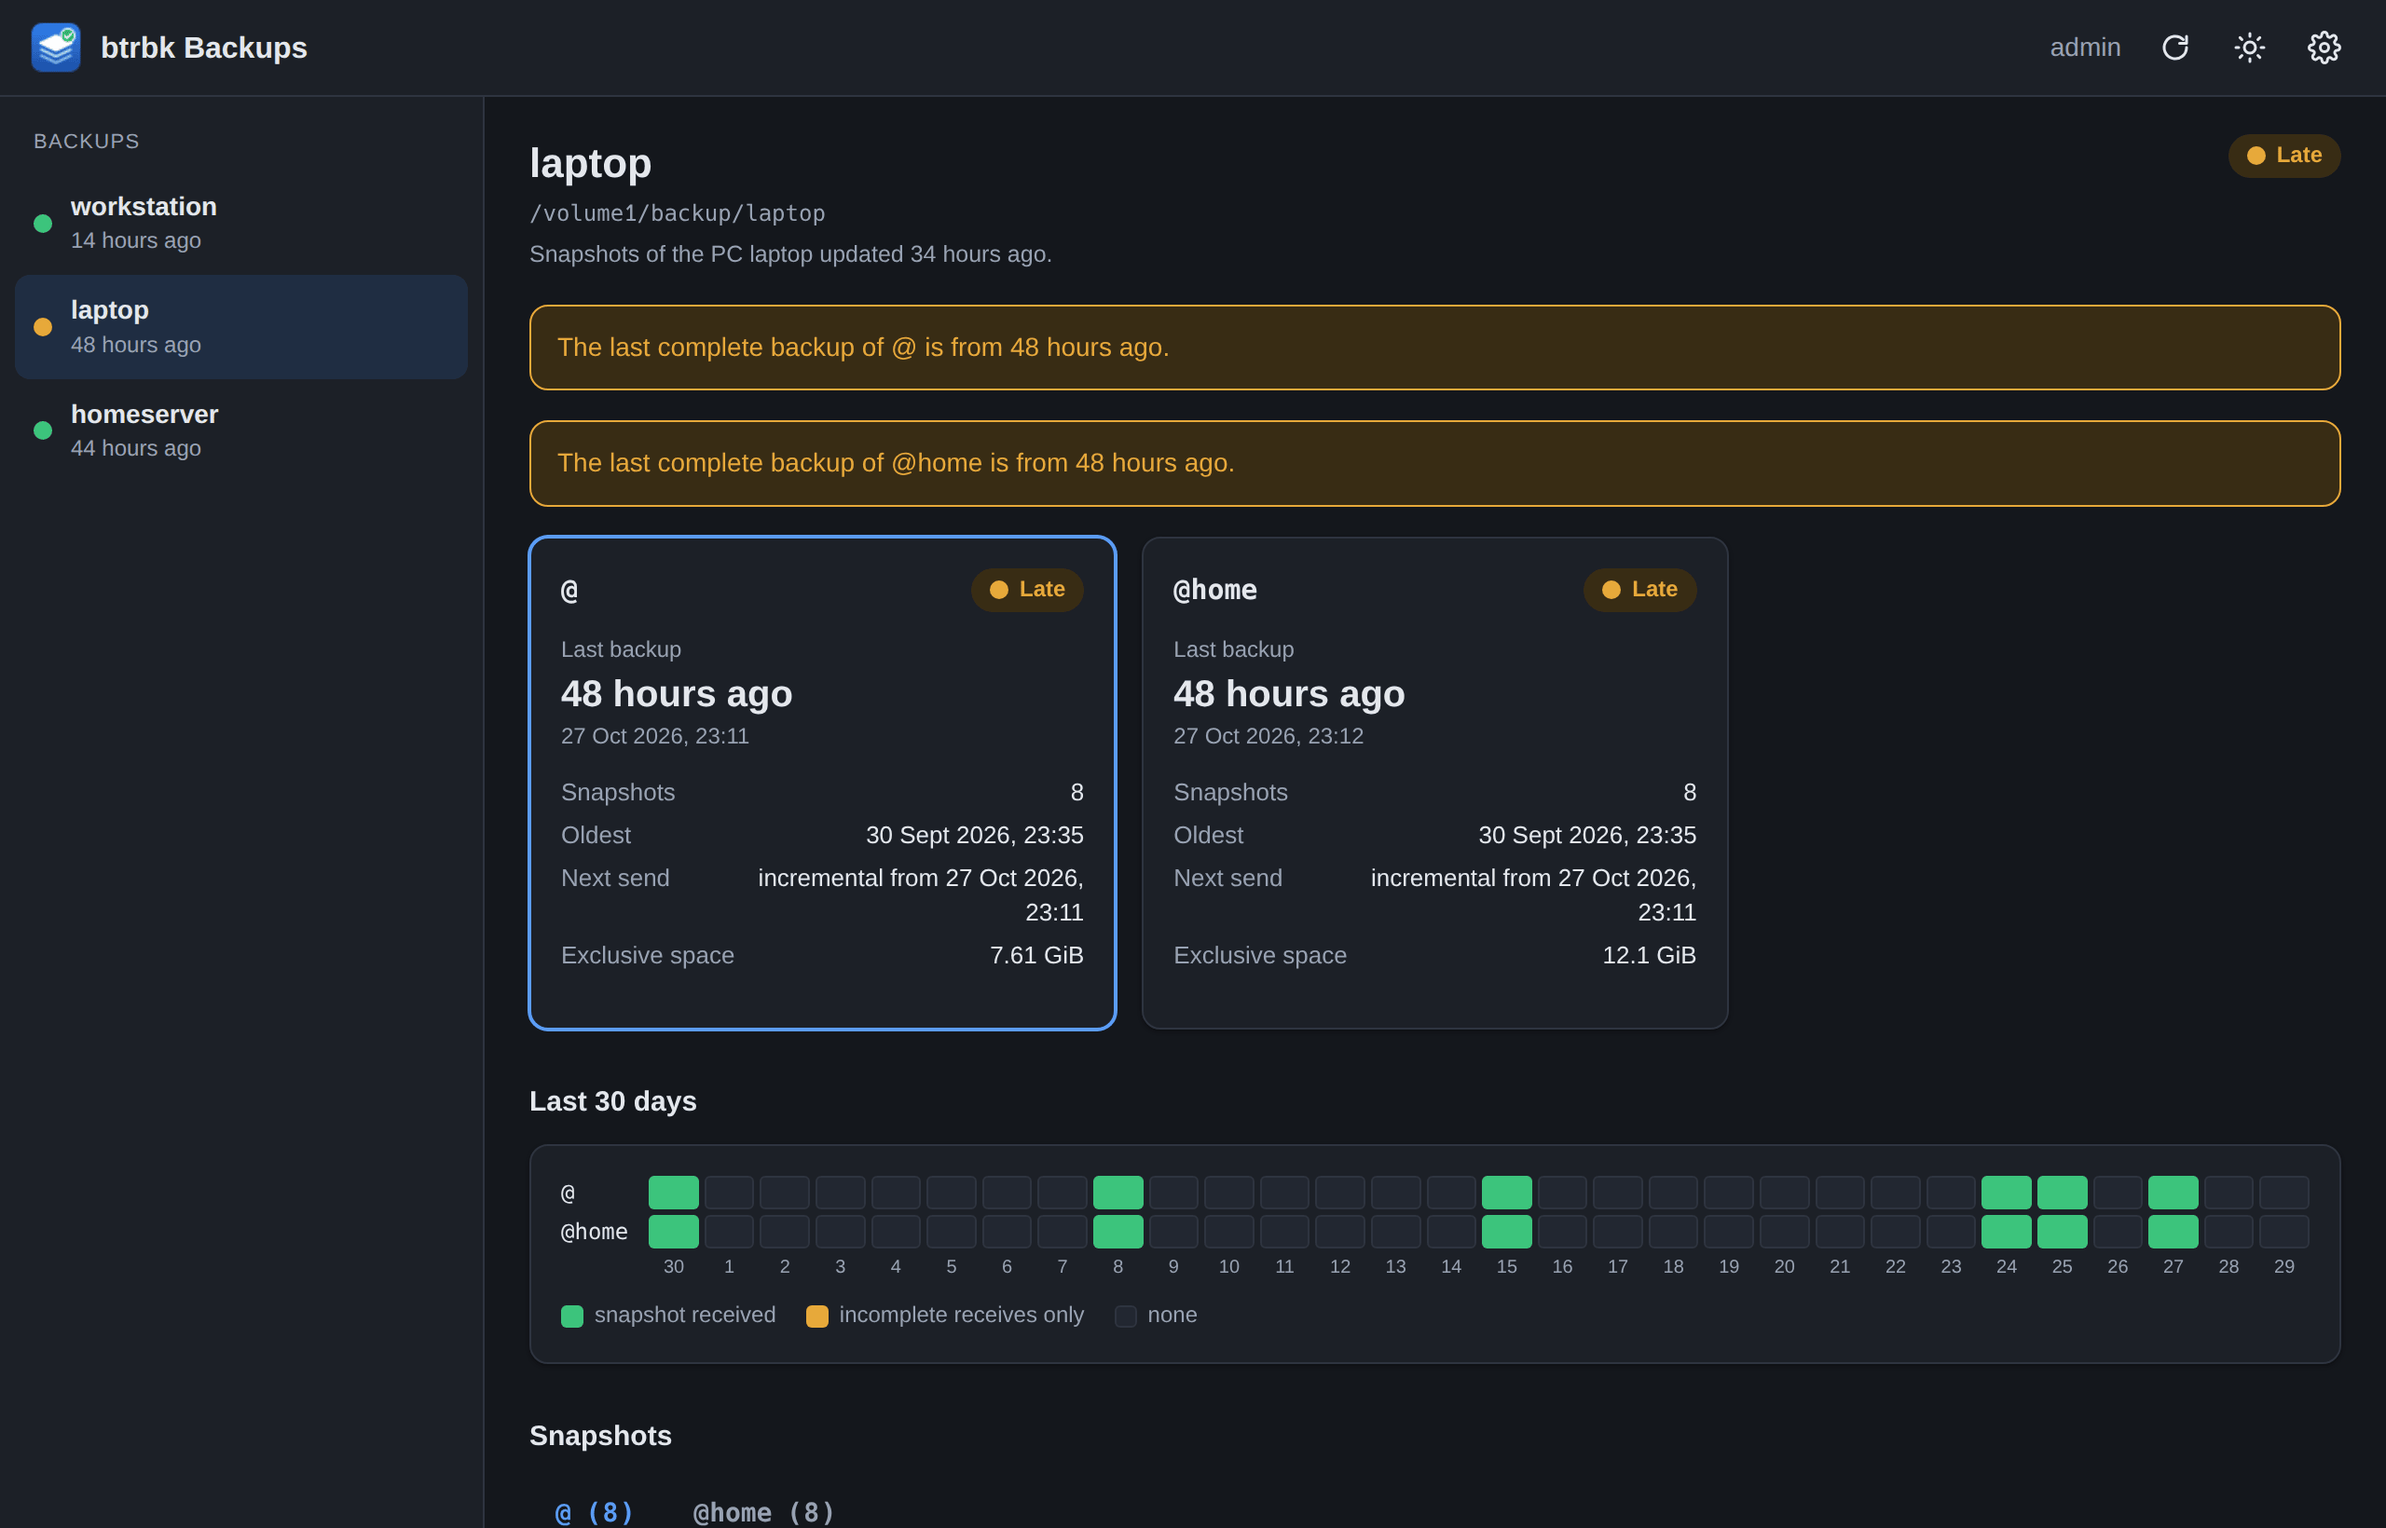
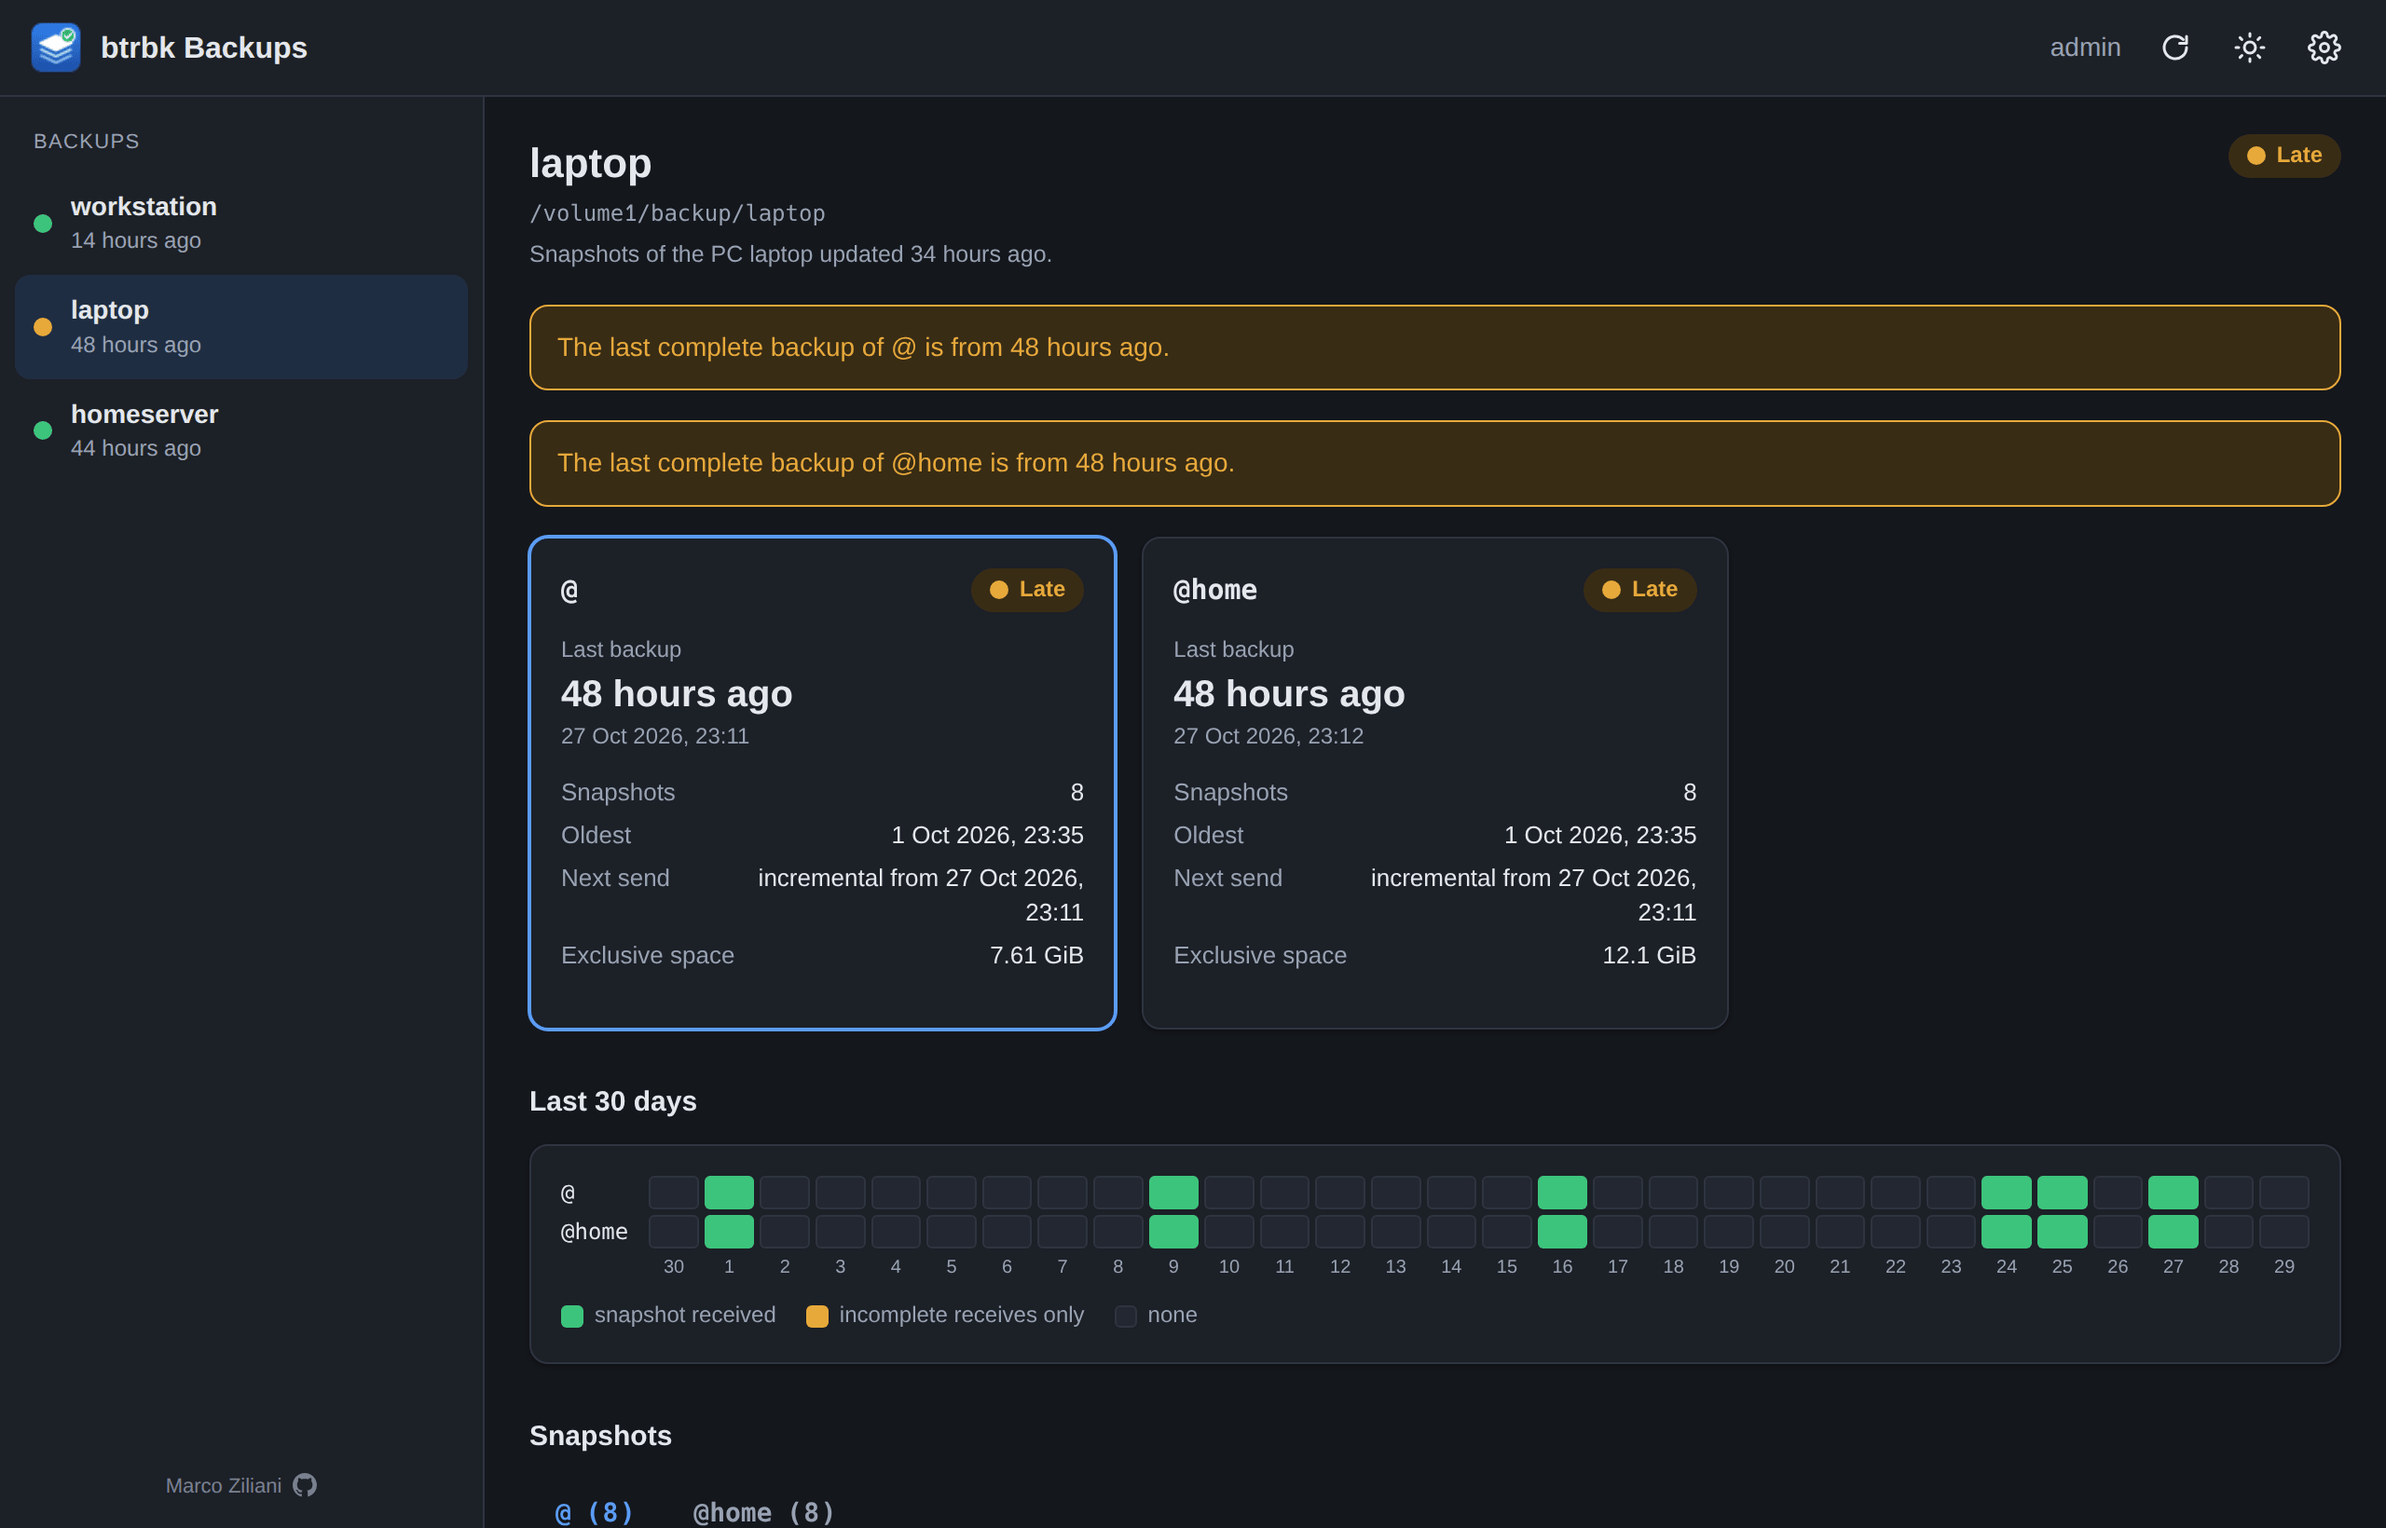
0.4.2: credits in the sidebar, an option to hide them
- The foot of the sidebar shows, quietly, the version and the author with
  a link to GitHub, as Dockhand does; a setting under Interface hides it.
- The interface's URLs carry the version and a hash of ui/, compiled into
  the binary too: every build has URLs of its own, not only every version.
  The page names its build in a meta tag; when the NAS runs another one,
  it reloads, once more with a URL never used if the cache still answers.
- The README links the glossary shared with SynoFile, now public.

diff --git a/ui/app.js b/ui/app.js
@@ -267,6 +267,16 @@ function showError(err) {
 
 /* ---------- sidebar ---------- */
 
+const GITHUB_MARK = '<svg viewBox="0 0 16 16" aria-hidden="true"><path d="M8 0C3.58 0 0 3.58 0 8c0 3.54 2.29 6.53 5.47 7.59.4.07.55-.17.55-.38 0-.19-.01-.82-.01-1.49-2.01.37-2.53-.49-2.69-.94-.09-.23-.48-.94-.82-1.13-.28-.15-.68-.52-.01-.53.63-.01 1.08.58 1.23.82.72 1.21 1.87.87 2.33.66.07-.52.28-.87.51-1.07-1.78-.2-3.64-.89-3.64-3.95 0-.87.31-1.59.82-2.15-.08-.2-.36-1.02.08-2.12 0 0 .67-.21 2.2.82.64-.18 1.32-.27 2-.27.68 0 1.36.09 2 .27 1.53-1.04 2.2-.82 2.2-.82.44 1.1.16 1.92.08 2.12.51.56.82 1.27.82 2.15 0 3.07-1.87 3.75-3.65 3.95.29.25.54.73.54 1.48 0 1.07-.01 1.93-.01 2.2 0 .21.15.46.55.38A8.01 8.01 0 0 0 16 8c0-4.42-3.58-8-8-8z"/></svg>';
+
+/** Version and author, quiet, at the foot of the sidebar. */
+function sidebarFooter(version) {
+  return h("div", { class: "side-footer" },
+    /^\d/.test(version || "") ? h("div", {}, `v${version}`) : null,
+    h("div", { class: "author" }, "Marco Ziliani",
+      h("a", { href: "https://github.com/rylos", target: "_blank", rel: "noopener", title: "GitHub", html: GITHUB_MARK })));
+}
+
 function renderSidebar(route) {
   const side = document.getElementById("sidebar");
   const ov = state.overview;
@@ -284,6 +294,8 @@ function renderSidebar(route) {
         h("div", { class: "sub" }, target.error ? t("error") : relative(target.last_received, ov.now)),
       )),
     ),
+    // replaceChildren would write a null as text
+    ...(ov.credits === false ? [] : [sidebarFooter(ov.version)]),
   );
 }
 
@@ -805,6 +817,8 @@ async function openSettings() {
     $("target-rows").replaceChildren(...config.targets.map(targetRow));
     $("warning-hours").value = config.warning_hours;
     $("critical-hours").value = config.critical_hours;
+    const credits = $("show-credits");
+    if (credits) credits.checked = config.show_credits !== false;
     fillNotifications(config.notifications);
     const ov = state.overview;
     $("monitor-status").textContent = ov ? monitorLine(ov.monitor, ov.now) : "";
@@ -833,6 +847,7 @@ function readSettings() {
     warning_hours: Number($("warning-hours").value),
     critical_hours: Number($("critical-hours").value),
     notifications: readNotifications(),
+    show_credits: $("show-credits")?.checked ?? true,
   };
 }
 
@@ -900,16 +915,25 @@ async function render() {
   }
 }
 
-// The DSM desktop keeps the loader of the version it started with, so after
+// The DSM desktop keeps the loader of the build it started with, so after
 // an upgrade the window can open the old index.html, still in the browser's
-// cache. When the NAS runs another version than the URLs name, reload with
-// its version, once.
-function staleVersion(version) {
-  const named = new URLSearchParams(ASSET_VERSION).get("v");
-  if (!named || named === "dev" || !version || version === "demo" || named === version) return false;
+// cache, with a newer app.js. The page names its build (a meta tag build.sh
+// fills in, version and hash of ui/); when the NAS runs another one, reload
+// with the NAS's in the URL, then once more with a URL never seen before.
+function staleVersion(asset) {
+  const meta = document.querySelector('meta[name="btrbk-nas-asset"]');
+  const page = meta ? meta.content : "";
+  if (!asset || asset === "dev" || page === "dev" || page === asset) return false;
+  const key = `btrbk-nas.reload.${asset}`;
+  let tries = 0;
+  try {
+    tries = Number(sessionStorage.getItem(key)) || 0;
+    sessionStorage.setItem(key, String(tries + 1));
+  } catch { /* no storage: the URL alone */ }
+  if (tries >= 2) return false;
   const url = new URL(location.href);
-  if (url.searchParams.get("v") === version) return false;
-  url.searchParams.set("v", version);
+  url.searchParams.set("v", asset);
+  if (tries === 1) url.searchParams.set("r", String(Date.now()));
   location.replace(url);
   return true;
 }
@@ -919,7 +943,7 @@ async function refresh() {
   button.classList.add("spinning");
   try {
     state.overview = await api("overview");
-    if (staleVersion(state.overview.version)) return;
+    if (staleVersion(state.overview.asset)) return;
     state.detail = null;
     document.getElementById("user").textContent = state.overview.user;
     await render();

diff --git a/ui/app.css b/ui/app.css
@@ -129,6 +129,12 @@ body.embedded .topbar { height: 44px; }
 .side-item .name { font-weight: 600; white-space: nowrap; overflow: hidden; text-overflow: ellipsis; }
 .side-item .sub { color: var(--muted); font-size: 12px; }
 .side-item > div { min-width: 0; }
+.sidebar { display: flex; flex-direction: column; }
+.side-footer { margin-top: auto; padding: 16px 10px 2px; color: var(--muted); font-size: 11px; opacity: .75; text-align: center; line-height: 1.6; }
+.side-footer .author { display: inline-flex; align-items: center; gap: 6px; }
+.side-footer a { display: inline-flex; color: inherit; }
+.side-footer a:hover { color: var(--text); }
+.side-footer svg { width: 13px; height: 13px; fill: currentColor; }
 
 .dot { width: 10px; height: 10px; border-radius: 50%; flex: none; background: var(--muted); }
 .dot.ok { background: var(--ok); }
@@ -331,8 +337,8 @@ a.btn { text-decoration: none; color: inherit; }
 
 @media (max-width: 760px) {
   .layout { flex-direction: column; }
-  .sidebar { width: auto; border-right: 0; border-bottom: 1px solid var(--border); display: flex; overflow-x: auto; padding: 8px; }
-  .side-title { display: none; }
+  .sidebar { width: auto; border-right: 0; border-bottom: 1px solid var(--border); display: flex; flex-direction: row; overflow-x: auto; padding: 8px; }
+  .side-title, .side-footer { display: none; }
   .side-item { width: auto; flex: none; }
   .content { padding: 16px; }
   .target-row { grid-template-columns: 1fr; }

diff --git a/ui/index.html b/ui/index.html
@@ -2,6 +2,7 @@
 <html lang="it">
 <head>
 <meta charset="utf-8">
+<meta name="btrbk-nas-asset" content="dev">
 <meta name="viewport" content="width=device-width, initial-scale=1">
 <title>btrbk Backups</title>
 <link rel="icon" href="images/icon_32.png">
@@ -87,6 +88,10 @@
         </div>
       </div>
       <p class="hint" id="monitor-status"></p>
+    </section>
+    <section>
+      <h3 data-i18n="interface"></h3>
+      <label class="check"><input type="checkbox" id="show-credits"> <span data-i18n="show_credits"></span></label>
     </section>
     <p class="form-error" id="settings-error"></p>
     <div class="dialog-actions">

diff --git a/ui/lang/es.js b/ui/lang/es.js
@@ -4,6 +4,8 @@ export default {
   settings: "Configuración",
   theme_light: "Tema claro",
   theme_dark: "Tema oscuro",
+  interface: "Interfaz",
+  show_credits: "Mostrar la versión y el autor al pie de la barra lateral",
   targets: "Carpetas de copia de seguridad",
   targets_hint: "Las carpetas a las que btrbk envía las instantáneas, una por PC. El nombre es solo una etiqueta.",
   add_target: "Añadir",

diff --git a/ui/lang/fr.js b/ui/lang/fr.js
@@ -4,6 +4,8 @@ export default {
   settings: "Paramètres",
   theme_light: "Thème clair",
   theme_dark: "Thème sombre",
+  interface: "Interface",
+  show_credits: "Afficher la version et l'auteur en bas de la barre latérale",
   targets: "Dossiers de sauvegarde",
   targets_hint: "Les dossiers dans lesquels btrbk envoie les instantanés, un par PC. Le nom n'est qu'une étiquette.",
   add_target: "Ajouter",

diff --git a/ui/lang/de.js b/ui/lang/de.js
@@ -4,6 +4,8 @@ export default {
   settings: "Einstellungen",
   theme_light: "Helles Design",
   theme_dark: "Dunkles Design",
+  interface: "Oberfläche",
+  show_credits: "Version und Autor unten in der Seitenleiste anzeigen",
   targets: "Sicherungsordner",
   targets_hint: "Die Ordner, in die btrbk die Schnappschüsse sendet, einer pro PC. Der Name ist nur eine Bezeichnung.",
   add_target: "Hinzufügen",

diff --git a/ui/lang/pt.js b/ui/lang/pt.js
@@ -4,6 +4,8 @@ export default {
   settings: "Definições",
   theme_light: "Tema claro",
   theme_dark: "Tema escuro",
+  interface: "Interface",
+  show_credits: "Mostrar a versão e o autor no fundo da barra lateral",
   targets: "Pastas de cópia de segurança",
   targets_hint: "As pastas para onde o btrbk envia os instantâneos, uma por PC. O nome é apenas uma etiqueta.",
   add_target: "Adicionar",

diff --git a/ui/lang/pt-BR.js b/ui/lang/pt-BR.js
@@ -4,6 +4,8 @@ export default {
   settings: "Configurações",
   theme_light: "Tema claro",
   theme_dark: "Tema escuro",
+  interface: "Interface",
+  show_credits: "Mostrar a versão e o autor no rodapé da barra lateral",
   targets: "Pastas de backup",
   targets_hint: "As pastas para onde o btrbk envia os instantâneos, uma por PC. O nome é apenas um rótulo.",
   add_target: "Adicionar",

diff --git a/ui/lang/it.js b/ui/lang/it.js
@@ -4,6 +4,8 @@ export default {
   settings: "Impostazioni",
   theme_light: "Tema chiaro",
   theme_dark: "Tema scuro",
+  interface: "Interfaccia",
+  show_credits: "Mostra versione e autore in fondo alla barra laterale",
   targets: "Cartelle di backup",
   targets_hint: "Le cartelle in cui btrbk invia gli snapshot, una per PC. Il nome è solo un'etichetta.",
   add_target: "Aggiungi",

diff --git a/ui/lang/pl.js b/ui/lang/pl.js
@@ -4,6 +4,8 @@ export default {
   settings: "Ustawienia",
   theme_light: "Jasny motyw",
   theme_dark: "Ciemny motyw",
+  interface: "Interfejs",
+  show_credits: "Pokaż wersję i autora na dole paska bocznego",
   targets: "Foldery kopii zapasowych",
   targets_hint: "Foldery, do których btrbk wysyła migawki, po jednym na każdy PC. Nazwa to tylko etykieta.",
   add_target: "Dodaj",

diff --git a/ui/lang/nl.js b/ui/lang/nl.js
@@ -4,6 +4,8 @@ export default {
   settings: "Instellingen",
   theme_light: "Licht thema",
   theme_dark: "Donker thema",
+  interface: "Interface",
+  show_credits: "Versie en auteur onderaan de zijbalk weergeven",
   targets: "Back-upmappen",
   targets_hint: "De mappen waarin btrbk de snapshots verstuurt, één per pc. De naam is alleen een label.",
   add_target: "Toevoegen",

diff --git a/ui/lang/en.js b/ui/lang/en.js
@@ -4,6 +4,8 @@ export default {
   settings: "Settings",
   theme_light: "Light theme",
   theme_dark: "Dark theme",
+  interface: "Interface",
+  show_credits: "Show the version and author at the foot of the sidebar",
   targets: "Backup folders",
   targets_hint: "The folders btrbk sends snapshots into, one per PC. The name is just a label.",
   add_target: "Add",
